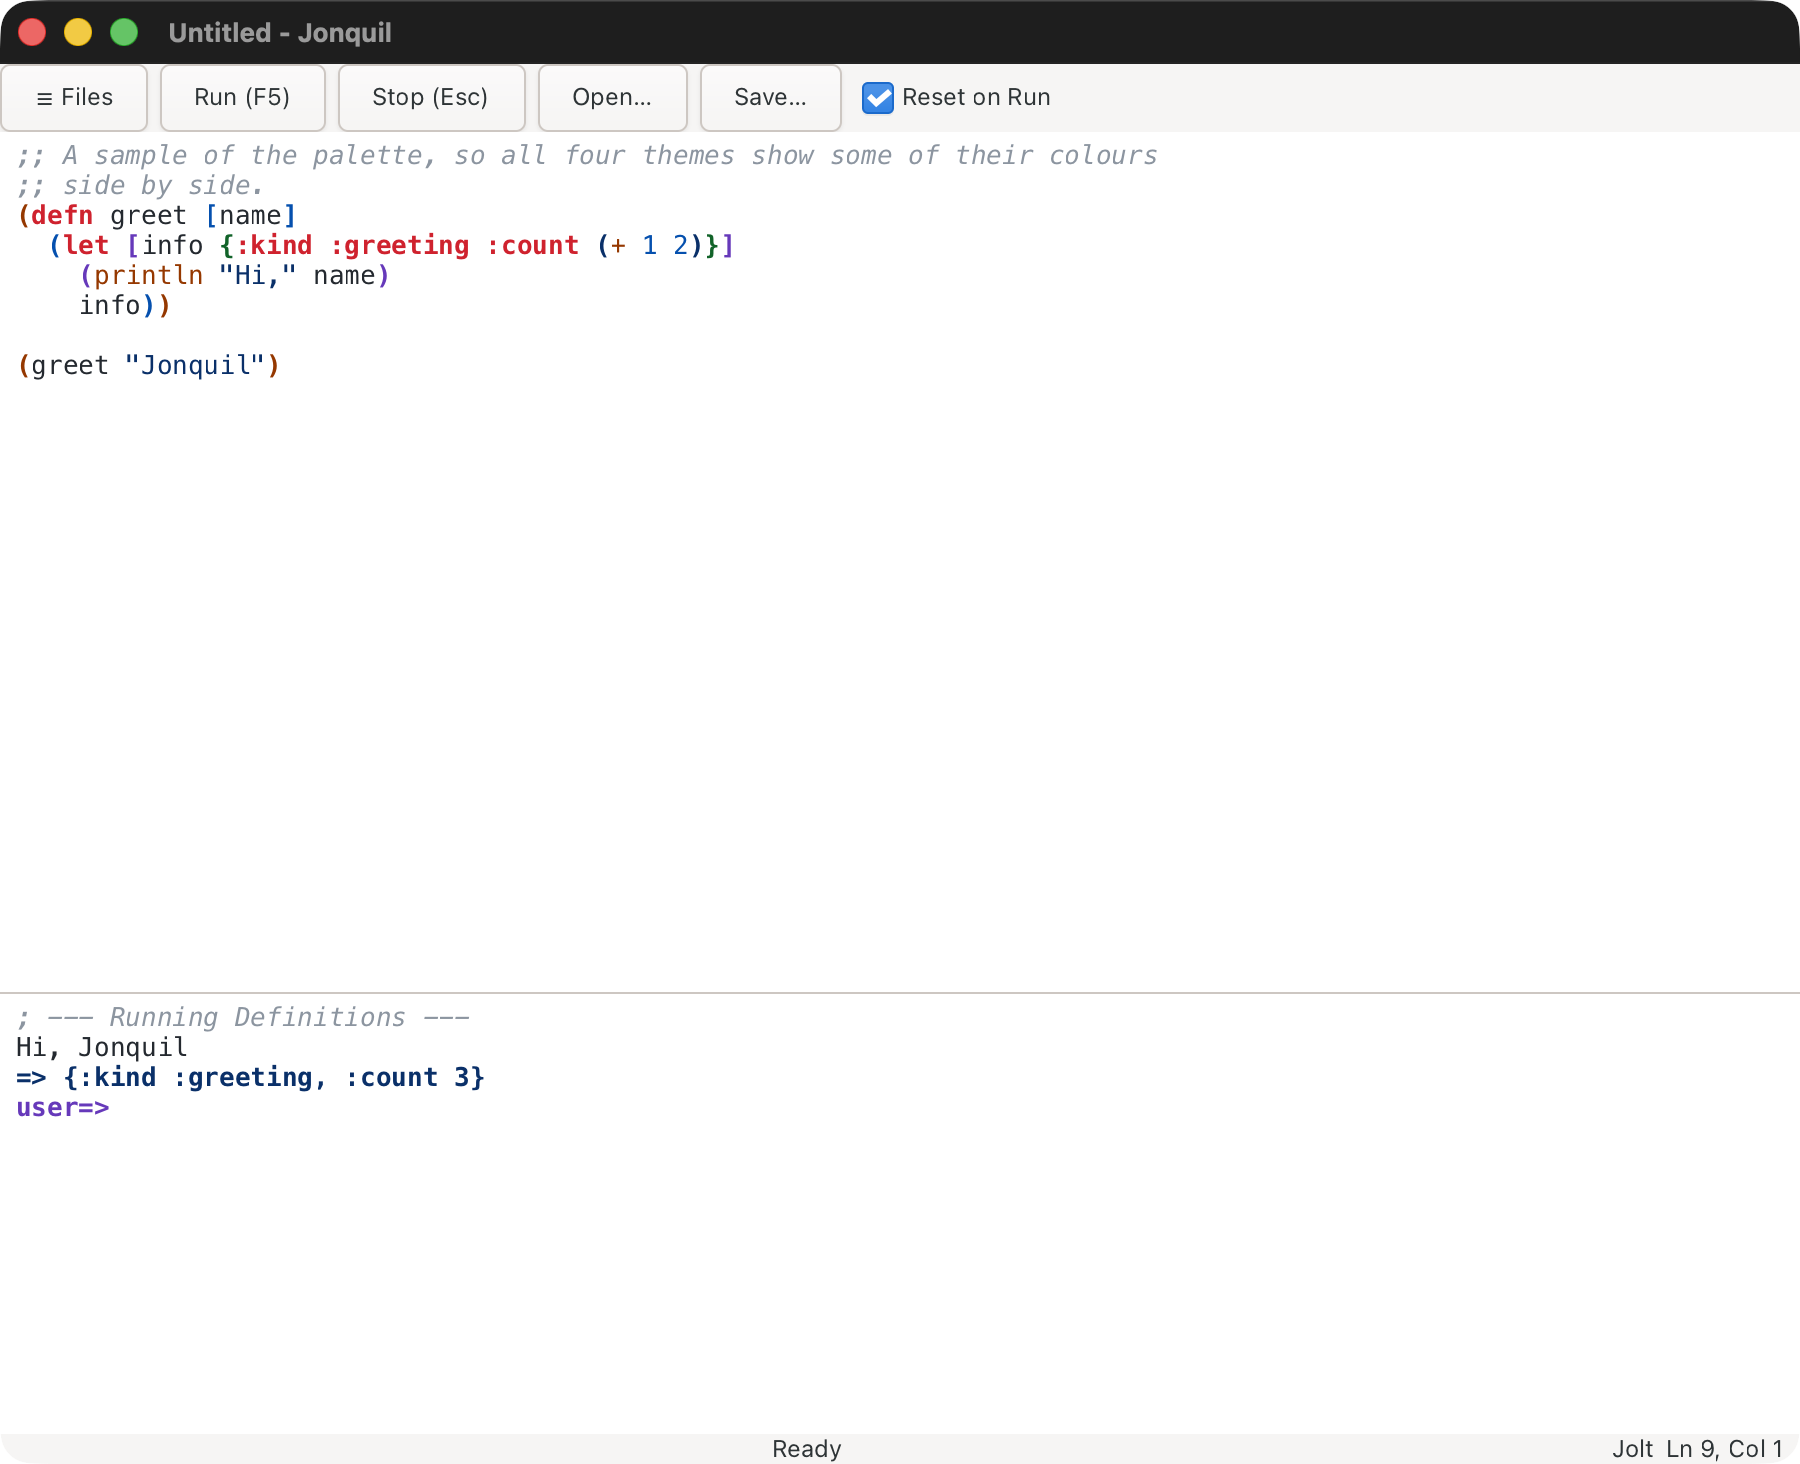
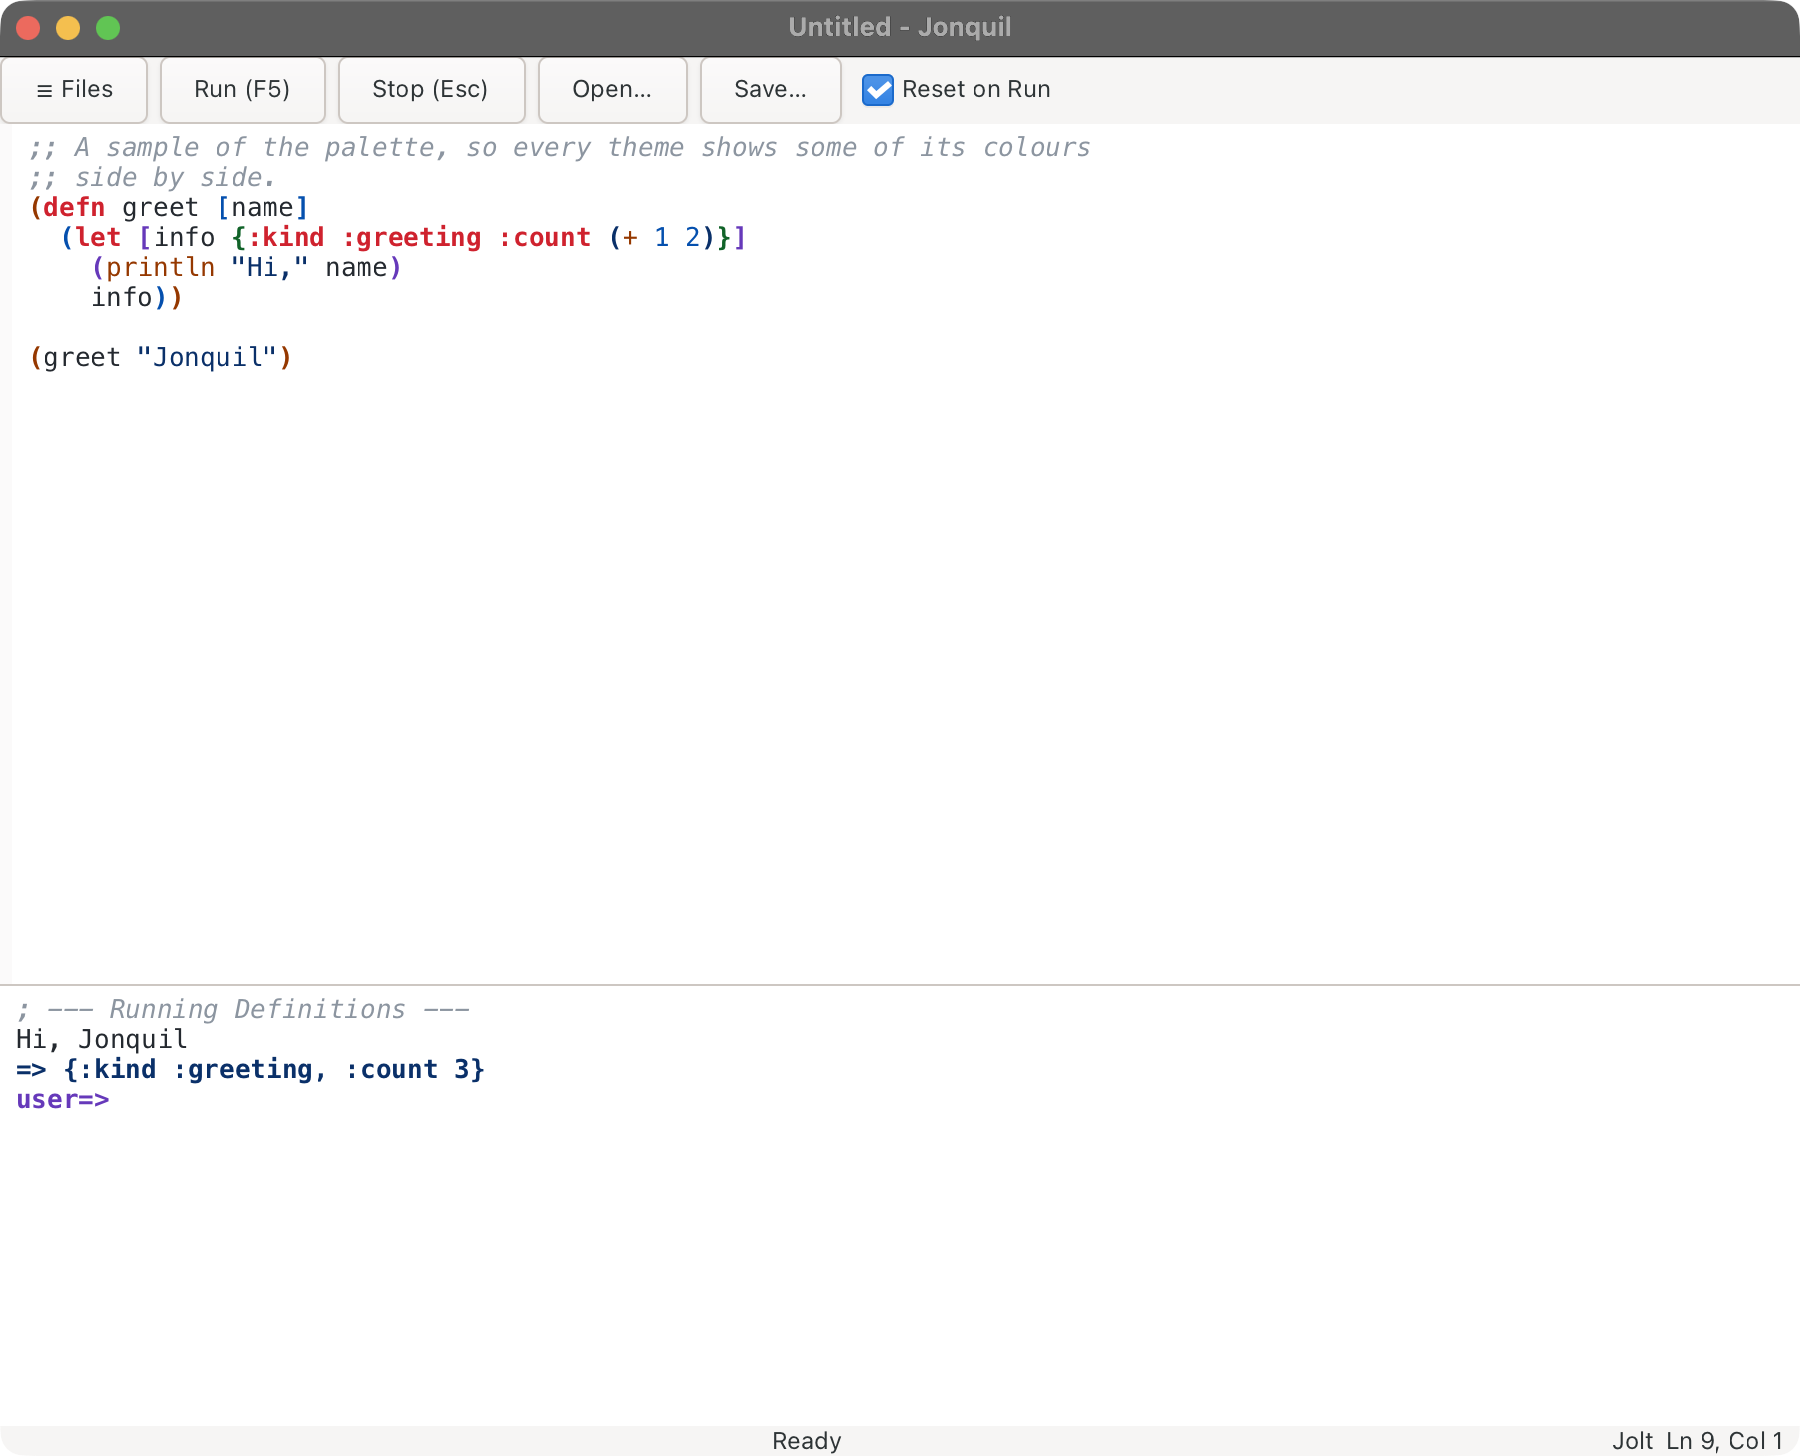
Six popular themes (Gruvbox Dark and Light, Dracula, Nord, Zenburn, Monokai) and Use theme palette entries

Changed region(s): [[0.0, 0.0, 1.0, 0.2782], [0.0, 0.649, 1.0, 0.7727]]

diff --git a/docs/guide/using-jonquil.md b/docs/guide/using-jonquil.md
@@ -423,13 +423,23 @@ normal behavior.
 
 ## Themes
 
-Cmd/Ctrl+Shift+M cycles light (the default), dark, solarized, navy and auto.
-The status bar shows the current one.
+Jonquil has ten themes: light (the default), dark, solarized and navy, and
+six popular ones from other editors, Gruvbox Dark, Gruvbox Light, Dracula,
+Nord, Zenburn and Monokai. To pick one by name, open the command palette
+(Cmd/Ctrl+Shift+P) and type "theme": each has a Use theme entry, and so does
+auto. Cmd/Ctrl+Shift+M cycles through them all in that order, ending with
+auto. The status bar shows the current one, and your choice is saved.
 
 ![Jonquil's window in the light theme](../images/theme-light.png)
 ![Jonquil's window in the dark theme](../images/theme-dark.png)
 ![Jonquil's window in the solarized theme](../images/theme-solarized.png)
 ![Jonquil's window in the navy theme](../images/theme-navy.png)
+![Jonquil's window in the Gruvbox Dark theme](../images/theme-gruvbox-dark.png)
+![Jonquil's window in the Gruvbox Light theme](../images/theme-gruvbox-light.png)
+![Jonquil's window in the Dracula theme](../images/theme-dracula.png)
+![Jonquil's window in the Nord theme](../images/theme-nord.png)
+![Jonquil's window in the Zenburn theme](../images/theme-zenburn.png)
+![Jonquil's window in the Monokai theme](../images/theme-monokai.png)
 
 A theme recolours both panes and GTK's chrome. Auto follows the system's
 Light or Dark mode on macOS; elsewhere it shows light.

diff --git a/CHANGELOG.md b/CHANGELOG.md
@@ -6,6 +6,10 @@ everything that shipped before that.
 
 ## [Unreleased]
 
+### Added
+
+- Six popular themes: Gruvbox Dark, Gruvbox Light, Dracula, Nord, Zenburn and Monokai, taking each original's colours (credited in `NOTICE`) with Jonquil's own token mapping and the same contrast floors as the first four. The command palette now has a "Use theme: <name>" entry for each theme and for auto, so you can pick one by name; Cmd/Ctrl+Shift+M still cycles through them all.
+
 ### Fixed
 
 - The README and Getting started point at the notarized 0.1.0 download, the Jolt notes say which features need v0.8.24 (the first release with `jolt.debug` and `jolt.profile`) instead of "not yet in a release", the release build lists `pkgconf` and the Xcode Command Line Tools, and the README's test count is today's.

diff --git a/docs/guide/getting-started.md b/docs/guide/getting-started.md
@@ -309,9 +309,10 @@ when that variable is unset, blank, or not an absolute path:
  :remember-session? true}
 ```
 
-- `:theme`: the theme you last picked with Cmd/Ctrl+Shift+M, one of
-  `:light`, `:dark`, `:solarized`, `:navy` or `:auto` (follow macOS's
-  light or dark setting).
+- `:theme`: the theme you last picked with Cmd/Ctrl+Shift+M or the
+  palette's Use theme entries, one of `:light`, `:dark`, `:solarized`,
+  `:navy`, `:gruvbox-dark`, `:gruvbox-light`, `:dracula`, `:nord`,
+  `:zenburn`, `:monokai` or `:auto` (follow macOS's light or dark setting).
 - `:file-tree`: whether the tree was showing and how wide, saved when you
   toggle it and when you quit.
 - `:dialect` (hand-written, optional): the dialect an untitled buffer or a

diff --git a/docs/guide/keys.md b/docs/guide/keys.md
@@ -72,7 +72,7 @@ to the previous track, and F10 without fn mutes the sound.
 | Cmd/Ctrl+= (or +) | anywhere in the window | Zoom in |
 | Cmd/Ctrl+- | anywhere in the window | Zoom out |
 | Cmd/Ctrl+0 | anywhere in the window | Reset zoom |
-| Cmd/Ctrl+Shift+M | anywhere in the window | Cycle the theme (light, dark, solarized, navy, auto) |
+| Cmd/Ctrl+Shift+M | anywhere in the window | Cycle the theme (light, dark, solarized, navy, the six popular themes, auto); the palette's Use theme entries pick one by name |
 | Cmd/Ctrl+Shift+P | anywhere in the window | Open the command palette |
 
 To check a key from inside Jonquil, plugins' keys included, run **Describe
